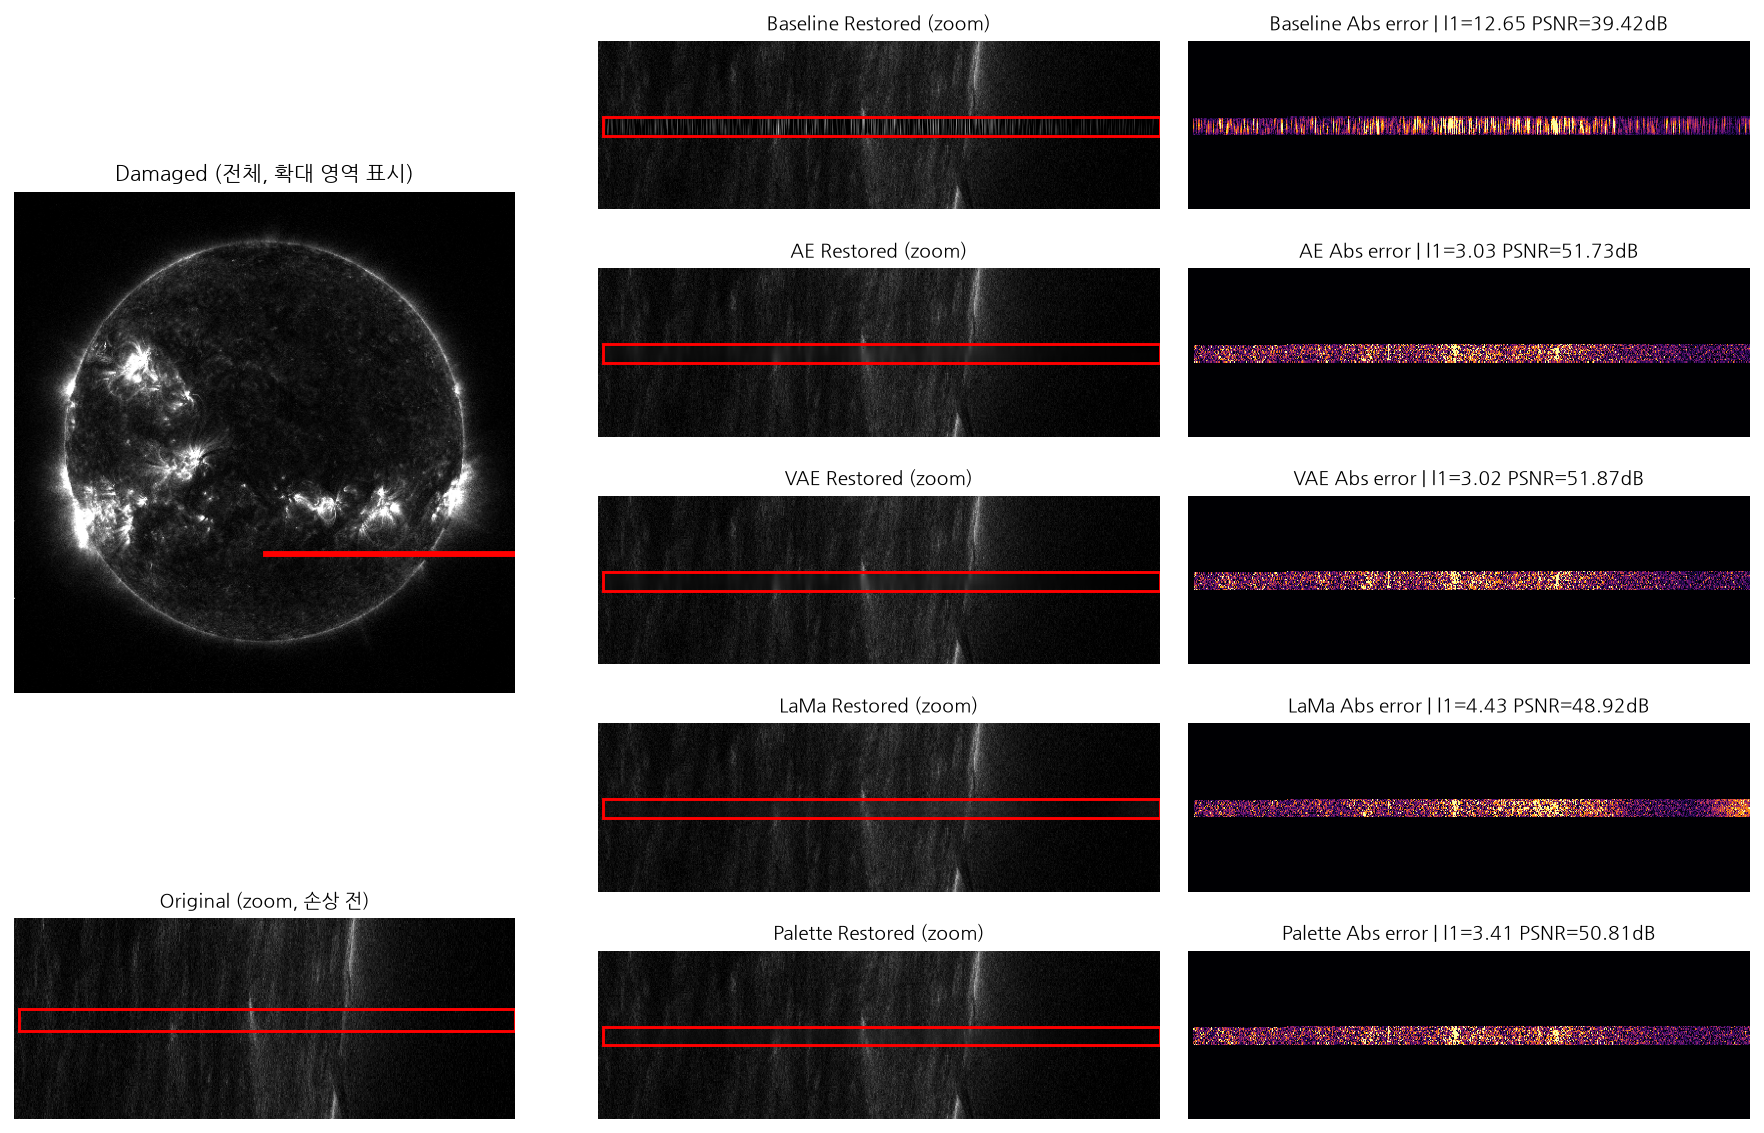
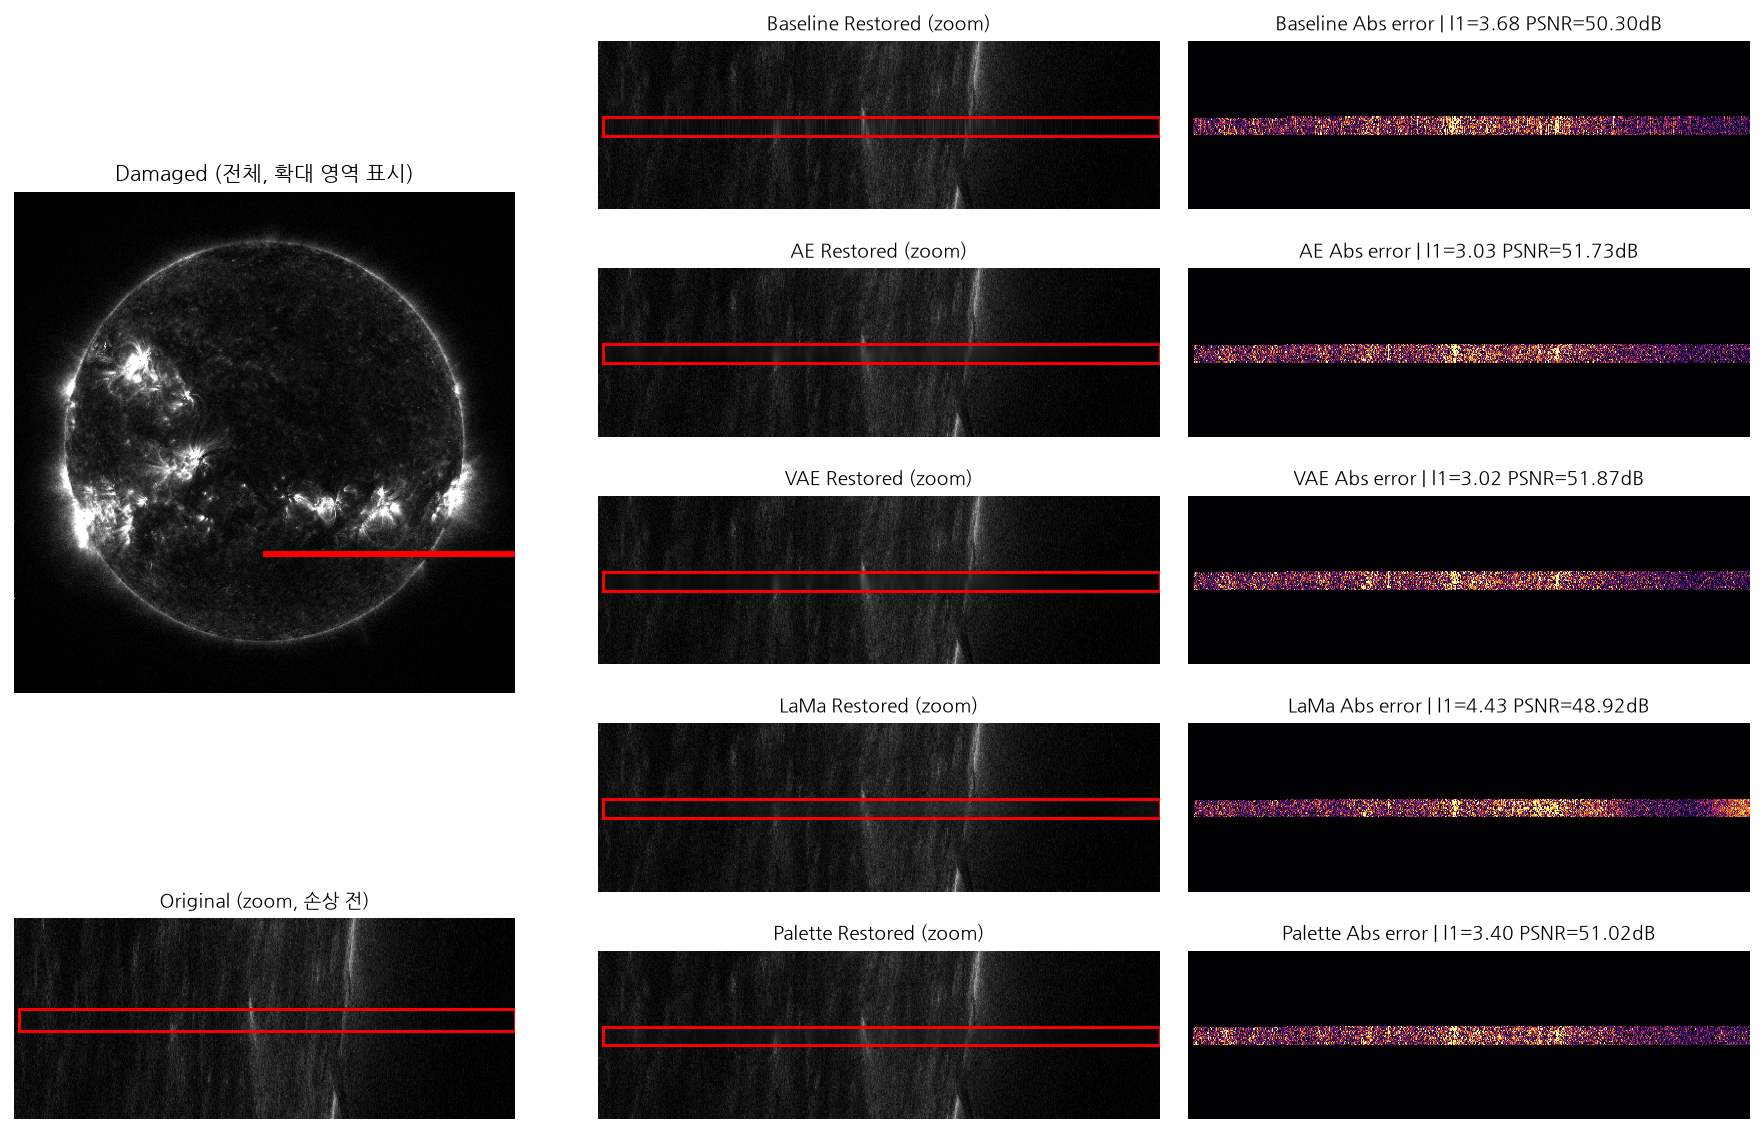
feat: MISS0 baseline을 cubic에서 linear로 교체, 비교 이미지 재생성

diff --git a/sun_miss0_recov/make_comparison_miss0.py b/sun_miss0_recov/make_comparison_miss0.py
@@ -8,6 +8,8 @@ make_comparison_miss0.py — MISS0 baseline/AE/VAE/LaMa/Palette 비교를 하나
        구버전 인터페이스(가중평균 고정) — AE/VAE/LaMa와 달리 merge_mode를 넘기지
        않고 호출. MISS0는 손상 크기가 작아 core_crop 없이도 문제없다고 판단해
        이 구조를 그대로 유지.
+[갱신] baseline을 cubic 대신 linear로 교체. run_baseline.py --method linear 정량
+       평가와 동일 기준으로 맞춤 (cubic overshoot 위험 회피).
 
 """
 
@@ -31,7 +33,7 @@ if os.path.exists(NANUM_PATH):
 plt.rcParams["axes.unicode_minus"] = False
 
 ROOT_DIR = os.path.dirname(os.path.abspath(__file__))
-OUT_PATH = os.path.join(ROOT_DIR, "verify_out", "comparison_miss0_seed0.png")
+OUT_PATH = os.path.join(ROOT_DIR, "verify_out", "comparison_miss0_seed6.png")
 os.makedirs(os.path.dirname(OUT_PATH), exist_ok=True)
 
 LAMA_REPO_PATH = "/path/to/lama"
@@ -95,7 +97,7 @@ def main():
     sys.path.insert(0, os.path.join(ROOT_DIR, "mask_bank"))
     from mask_loader import MaskBank
     from patch_geometry import get_damage_components
-    from restore_cubic import restore_vertical_cubic, apply_damage, masked_l1, masked_psnr
+    from restore_cubic import restore_vertical_linear, apply_damage, masked_l1, masked_psnr
 
     ae_eval = load_module("ae_eval_miss0", os.path.join(ROOT_DIR, "ae", "evaluate_ae.py"),
                            extra_syspath=os.path.join(ROOT_DIR, "ae"))
@@ -113,7 +115,7 @@ def main():
     LAMA_CKPT = os.path.join(ROOT_DIR, "lama", "runs", "ckpt_ep160.pt")  # 실제 최신 파일명 확인 후 조정
     PALETTE_CKPT = os.path.join(ROOT_DIR, "palette", "runs", "ckpt_ep50.pt")  # 실제 최신 파일명 확인 후 조정
 
-    seed = 0
+    seed = 6
     val_df = pd.read_csv(VAL_CSV).sample(n=200, random_state=seed).reset_index(drop=True)
     row = val_df.iloc[0]
     img = np.load(row["cache_path"])
@@ -123,7 +125,7 @@ def main():
     mask2d = mask_bank.sample()
     damaged = apply_damage(img, mask2d, fill_value=0.0)
 
-    restored_baseline = restore_vertical_cubic(damaged, mask2d)
+    restored_baseline = restore_vertical_linear(damaged, mask2d)
 
     model_ae = ae_eval.AE(base_ch=32).to(device)
     ckpt = torch.load(AE_CKPT, map_location=device)

diff --git a/sun_miss0_recov/baseline/restore_cubic.py b/sun_miss0_recov/baseline/restore_cubic.py
@@ -176,3 +176,32 @@ def masked_ssim(orig, restored, mask2d, margin=60, eps=1e-8):
     window = _gaussian_window(11, 1.5)
     ssim_map = _ssim_map(crop_orig_n, crop_restored_n, window, data_range=1.0)
     return float(ssim_map.mean())
+
+
+def restore_vertical_linear(damaged, mask2d):
+    """열(column) 단위 1D 선형 보간. 두 경계값을 직선으로만 잇기 때문에
+    구간이 아무리 넓어도 보간값이 두 경계값 사이 범위를 벗어날 수 없음
+    (구조적으로 overshoot 불가능).
+
+    damaged: (H, W) 손상된 이미지 배열
+    mask2d : (H, W) {0,1}, 1=손상(복원 대상)
+    반환   : (H, W) 복원된 배열 (float32)
+    """
+    restored = damaged.copy().astype(np.float32)
+    h, w = damaged.shape
+    rows = np.arange(h)
+
+    for c in range(w):
+        col_mask = mask2d[:, c]
+        if not col_mask.any():
+            continue
+        known_rows = rows[~col_mask]
+        if len(known_rows) < 2:
+            if len(known_rows) == 1:
+                restored[col_mask, c] = damaged[known_rows[0], c]
+            continue
+        known_vals = damaged[known_rows, c]
+        missing_rows = rows[col_mask]
+        restored[missing_rows, c] = np.interp(missing_rows, known_rows, known_vals)
+
+    return restored
